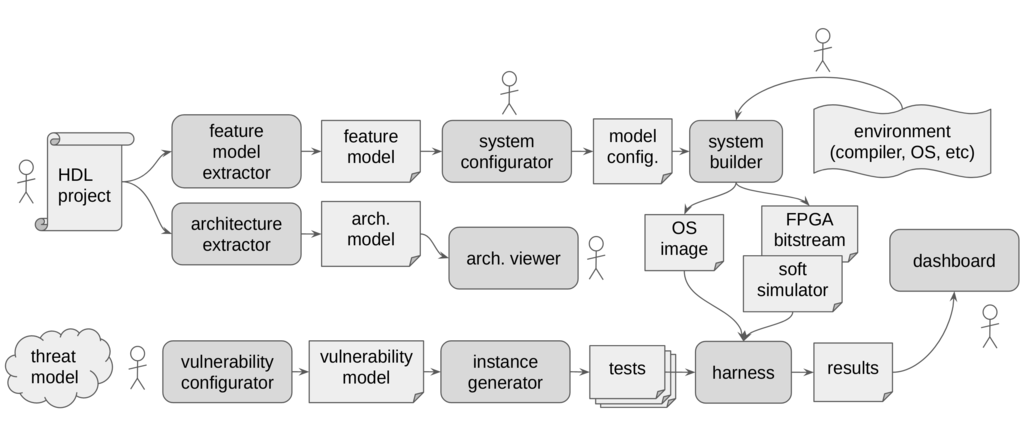
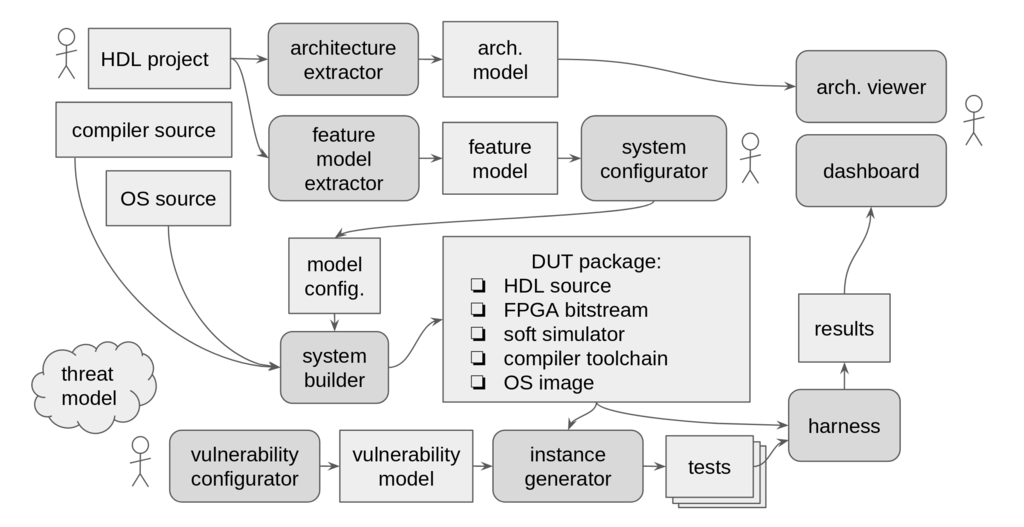
Update workflow diagram and overview text.

diff --git a/README.md b/README.md
@@ -19,8 +19,8 @@ Contents:
 ## Overview
 
 The diagram below roughly illustrates the intended flow of data and user
-interaction through the tool suite. Dog-eared boxes represent static
-artifacts, while rounded boxes represent software components under
+interaction through the tool suite. Rectangular white boxes represent static
+artifacts, while rounded grey boxes represent software components under
 development. The stick figures show where a user can interact with the
 system. The development status of each component is listed in a table at the
 end of this section.
@@ -28,11 +28,13 @@ end of this section.
 ![Tool suite workflow](workflow.png "Workflow")
 
 You, the user of the BESSPIN Tool Suite, supply a Chisel, BSV, or System
-Verilog implementation of your secure processor design. You also supply an
-informal model of the threats or software vulnerabilities that your design
-should protect against. In a future release, you will be able to upload your
-design files through the web-based user interface, where we will
-automatically extract two separate models of your design.
+Verilog implementation of your secure processor design, along with compiler or
+operating system source files needed to support secure software running on the
+processor. You also will need an informal model of the threats or software
+vulnerabilities that your design should protect against. In a future release,
+you will be able to upload your design and its supporting software through the
+web-based user interface, where we will automatically extract two separate
+models of your design.
 
 The architecture model is a graphical abstraction used for visual reference
 and correlation. At present, it simply visualizes the structure of your
@@ -41,27 +43,29 @@ processor, the architecture viewer will map test results onto the
 visualization.
 
 The feature model represents the configuration space of your design: all
-possible concrete, synthesizable instances of the elaborated design are
-points in this space. Once a feature model has been extracted, you may
-configure it through the System Configurator view in the web UI. A
-configured model, optionally supplemented with a customized build
-environment that you will be able to upload, will be used to generate a
-'Device Under Test' package. Such a DUT package will include an FPGA
-bitstream or executable Verilator simulation implementing your processor,
-along with your custom cross-compiler for test software or a specific OS
-image, as needed. This DUT will be run within a harness that provides an
-interface to both processor I/O and observable internal state.
+possible concrete, synthesizable instances of the elaborated design are points
+in this space. Once a feature model has been extracted, you may configure it
+through the System Configurator view in the web UI. Your configured model,
+compiler, and system software will be used to generate a 'Device Under Test'
+package. Such a DUT package will include an FPGA bitstream, an executable
+Verilator simulation implementing your processor, and executable builds of
+your compiler and operating system. The DUT will be placed in a harness
+environment that provides defined interfaces to both processor I/O and
+observable micro-architecture state.
 
-Meanwhile, with threat model in hand, you will be able to select a formal
-model of a specific vulnerability of interest from a library of such models,
-and configure it as appropriate. This vulnerability model will in turn be
-used to construct a test package including a generator for concrete test
-instances and a classifier which decides the outcome of a single test
-instance run. The configuration step will constrain the variation produced
-by the generator. The test and DUT will run together within the harness,
-producing a stream of results that are stored in an evidence database. The
-dashboard view of the web UI will allow you to query and plot aggregated
-results.
+Meanwhile, with your threat model in mind, you will be able to select and
+configure formal models of specific vulnerabilities of interest. Configuration
+will constrain both random and pre-defined variation produced by the test
+generators. These configured vulnerability models will be used to construct a
+test package, including a generator for concrete test instances and a
+classifier which decides the outcome of a single test instance run. The test
+and DUT will run together within the harness, producing a stream of results
+that are stored in an evidence database. The database will associate test
+results with project sources, configurations, compiled binaries, and other
+relevant artifacts.  The dashboard view of the web UI will allow you to query
+and plot aggregated results, and to inspect or download the associated
+artifacts.
+
 
 | Component | Status |
 | --------- | ------ |
@@ -71,7 +75,7 @@ results.
 | [Architecture extractor](https://gitlab-ext.galois.com/ssith/arch-extract#featuresynthfeaturesynthrkt-besspin-feature-extract) | complete |
 | [Architecture viewer](https://gitlab-ext.galois.com/ssith/arch-extract) | prototype |
 | [Vulnerability configurator](https://gitlab-ext.galois.com/ssith/arch-extract) | prototype |
-| [Test instance generators](https://gitlab-ext.galois.com/ssith/testgen) | one prototype, more to come |
+| [Test instance generators](https://gitlab-ext.galois.com/ssith/testgen) | in progress |
 | [Harness](https://gitlab-ext.galois.com/ssith/testgen) | in progress |
 | [Dashboard](https://gitlab-ext.galois.com/ssith/besspin-ui) | waiting for upstream data |
 
